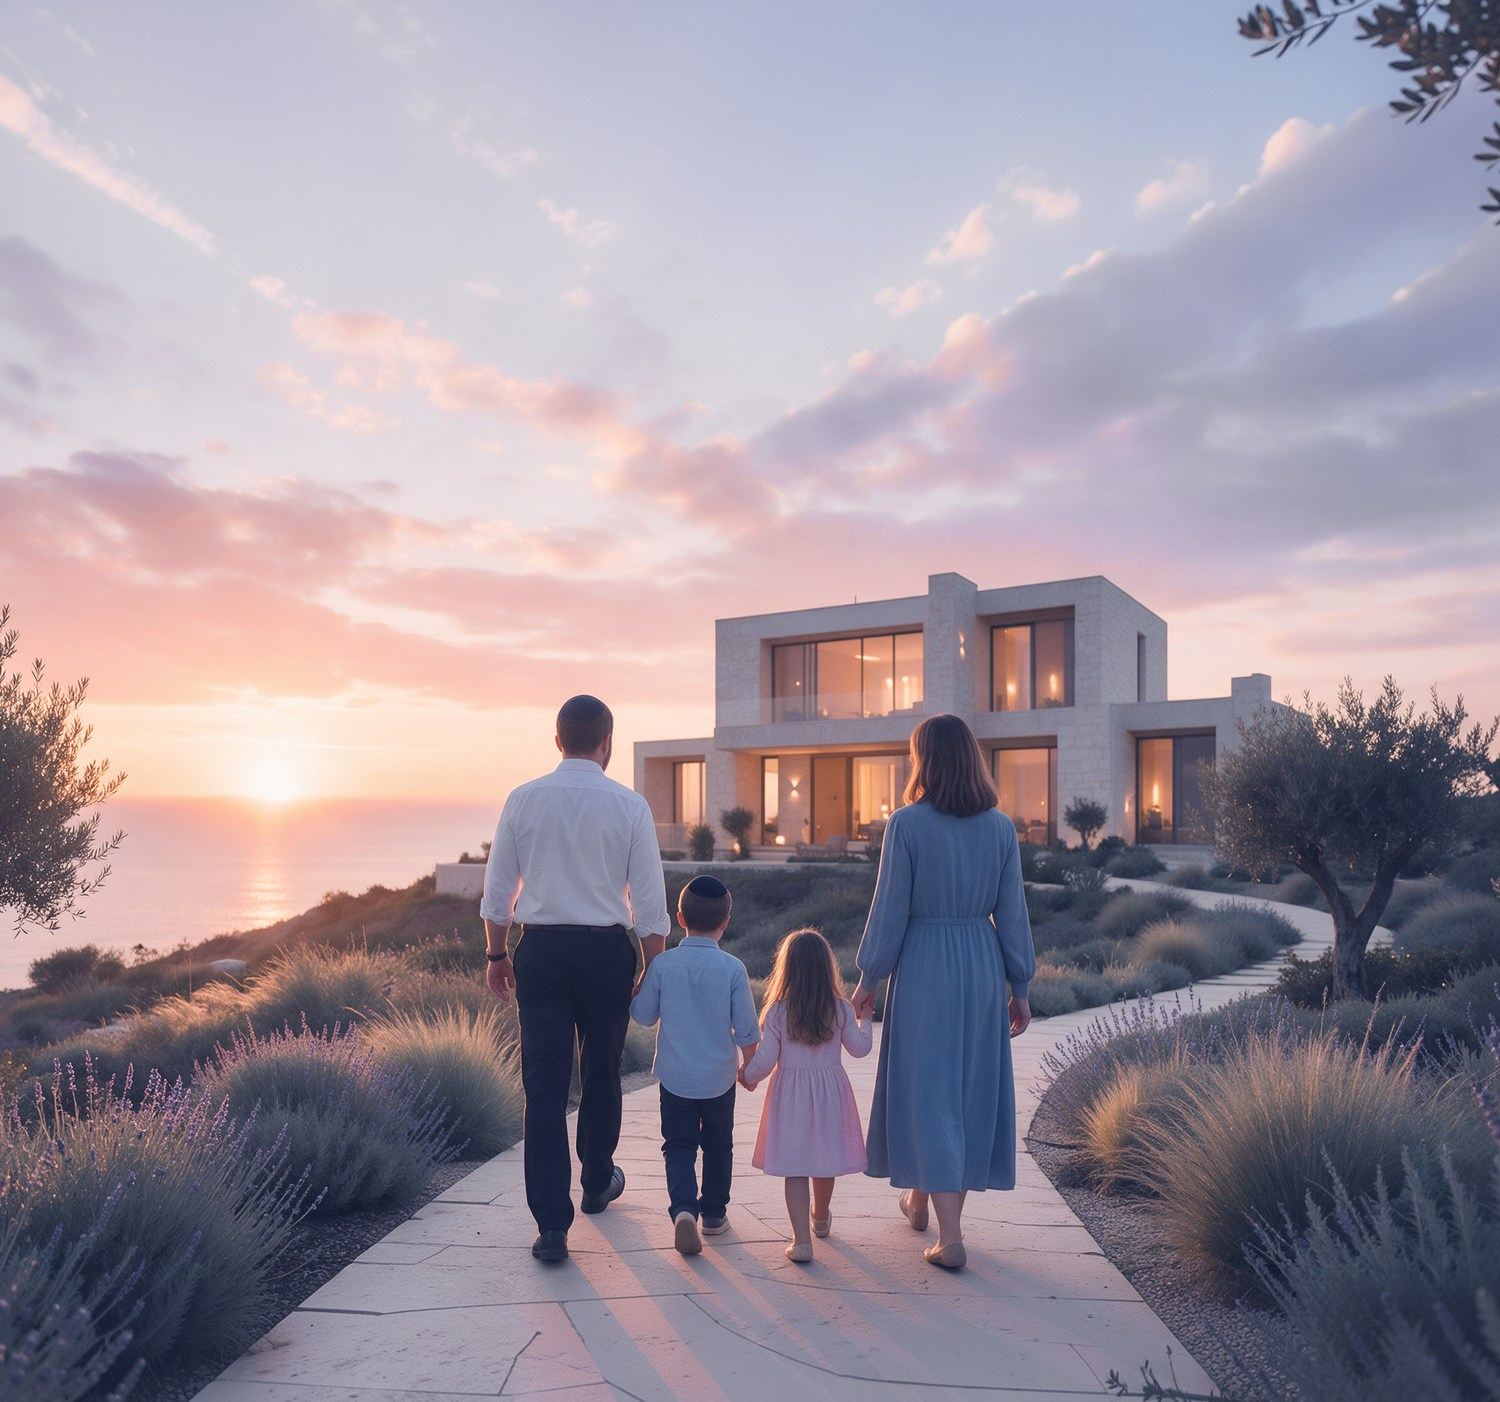
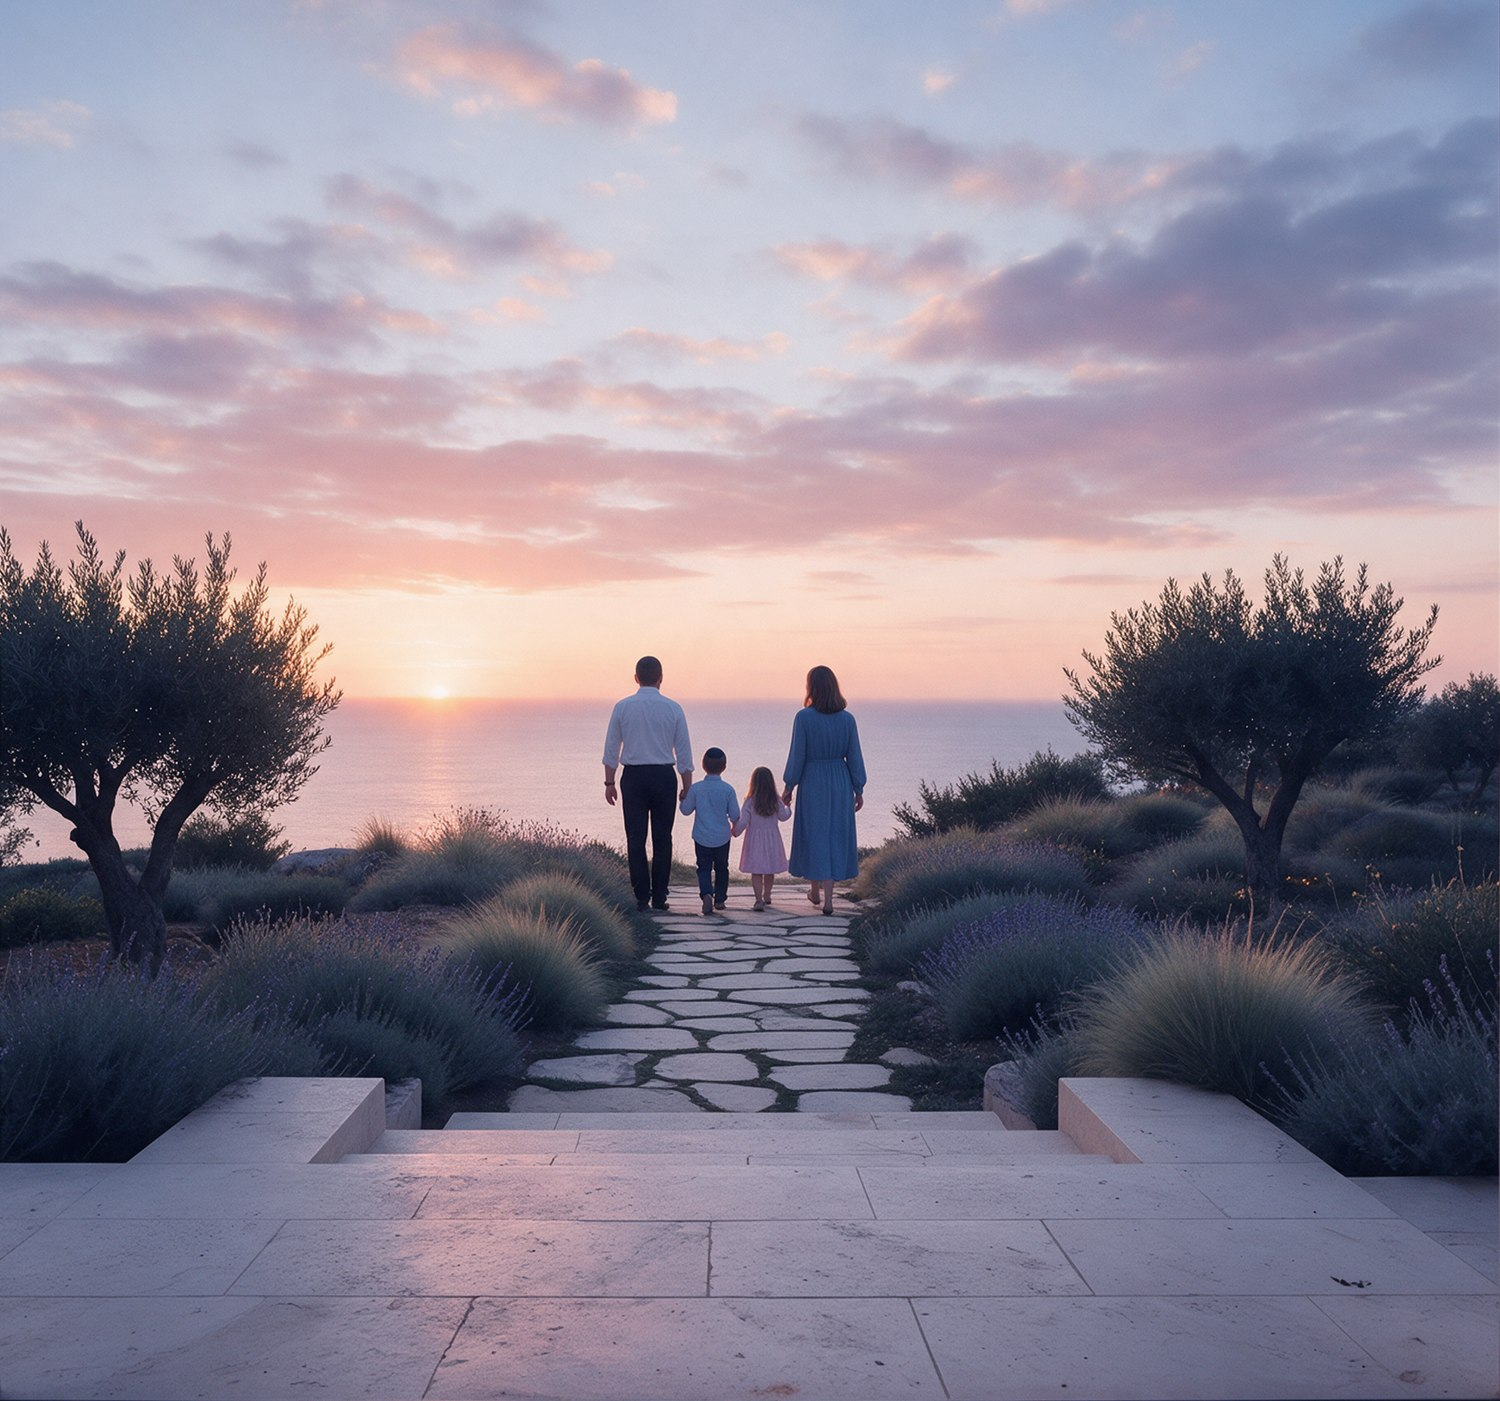
Home: two more investment-simulator CTAs, all linked to the live simulator

diff --git a/index.html b/index.html
@@ -121,7 +121,7 @@
       <div class="hero__intro">
         <p class="hero__lead"><bdi lang="en">5M Group</bdi> הוא <em>בית</em> למשפחות משקיעות<br> שבונות ביטחון כלכלי באמצעות הון ונכסים.</p>
         <p class="hero__body">כאן תהפכו את המשכורות והחסכונות שלכם לתיק נכסים מניב וצומח,<br> ותקבלו רוגע, בהירות ועתיד בטוח,<br> בעזרת אסטרטגיה כלכלית מותאמת אישית וניהול <span class="nowrap">פיננסי-משפחתי</span> מקיף.</p>
-        <a class="btn" href="simulator.html"><i class="hz" aria-hidden="true"></i>לסימולטור השקעות<span class="arr">&gt;&gt;</span></a>
+        <a class="btn" href="https://app.winnernadlan.com/embed/simulator" target="_blank" rel="noopener" aria-label="לסימולטור השקעות (נפתח בחלון חדש)"><i class="hz" aria-hidden="true"></i>לסימולטור השקעות<span class="arr">&gt;&gt;</span></a>
       </div>
 
       <a class="hero__scroll" href="#next" aria-label="גלילה לתוכן הבא"></a>
@@ -279,6 +279,8 @@
             <span class="sum2__big"><span class="sum2__w">עתיד</span> <span class="sum2__pic" aria-hidden="true"><img src="assets/sum-res.jpg" alt="" loading="lazy" decoding="async"></span> <span class="sum2__w">כלכלי רגוע</span></span>
             <span class="sum2__sub"><span class="visually-hidden">ואושר (ועושר)</span><span aria-hidden="true">ו<span class="aosh"><i>א</i><i>ע</i></span>ושר</span> משפחתי שהולך וגדל</span>
           </p>
+          <!-- כפתור לסימולטור: אחרי שהחשבון נסגר, להכניס את המספרים שלכם -->
+          <div class="sim-go sum2__go"><p class="sim-go__q">רוצים לראות את זה במספרים שלכם?</p><a class="btn" href="https://app.winnernadlan.com/embed/simulator" target="_blank" rel="noopener" aria-label="לסימולטור השקעות (נפתח בחלון חדש)"><i class="hz" aria-hidden="true"></i>לסימולטור השקעות<span class="arr">&gt;&gt;</span></a></div>
         </div>
       </div>
     </section>
@@ -364,6 +366,8 @@
           <article class="case"><span class="case__n" aria-hidden="true">02</span><h3 class="case__name">קונים ספר על דחיינות,<br>ודוחים את הקריאה בו</h3><p class="case__lead">הם זכרו שכסף שלא מושקע מאבד ערך, הבינו שצריך לדאוג לעתיד וידעו שחבל על כל רגע - אבל מרוב אפשרויות, עצות סותרות ופחד מהקפיצה למים, הם בחרו לדחות ולדחות עד שזה התמסמס בתוך השגרה. ובסוף הם קפצו..</p></article>
           <article class="case"><span class="case__n" aria-hidden="true">03</span><h3 class="case__name">רוצים הרבה,<br>אבל עושים מה שיוצא</h3><p class="case__lead">הם פתחו קופת גמל כי כדאי, חשבו לקנות דירה להשקעה כי כולם קונים, והכניסו כסף לבורסה כי מישהו אמר להם. חלק מההחלטות שלהם אולי היו טובות לכשעצמן, אבל עבורם הן היו טעויות אסטרטגיות קריטיות.</p></article>
         </div>
+        <!-- כפתור לסימולטור: מי שזיהה את עצמו באחד המצבים בודק לאן הכסף שלו יכול להגיע -->
+        <div class="sim-go peak__go"><p class="sim-go__q">מזהים את עצמכם? בדקו בסימולטור לאן הכסף שלכם יכול להגיע</p><a class="btn" href="https://app.winnernadlan.com/embed/simulator" target="_blank" rel="noopener" aria-label="לסימולטור השקעות (נפתח בחלון חדש)"><i class="hz" aria-hidden="true"></i>לסימולטור השקעות<span class="arr">&gt;&gt;</span></a></div>
       </div>
     </section>
 

diff --git a/sections.js b/sections.js
@@ -374,7 +374,7 @@
   const sum2 = $('.sum2');
   if (sum2) {
     const rows = $$('.sum2__row', sum2), ops = $$('.sum2__op', sum2), eq = $('.sum2__eq', sum2), words = $$('.sum2__w', sum2),
-      pic = $('.sum2__pic', sum2), picImg = $('.sum2__pic img', sum2), sub = $('.sum2__sub', sum2);
+      pic = $('.sum2__pic', sum2), picImg = $('.sum2__pic img', sum2), sub = $('.sum2__sub', sum2), go = $('.sum2__go', sum2);
     if (reduce) sum2.classList.add('is-done');
     else {
       gsap.set(rows, { autoAlpha: 0, y: 26 * U() });
@@ -384,6 +384,7 @@
       gsap.set(pic, { clipPath: 'inset(0% 50% 0% 50%)' });
       gsap.set(picImg, { scale: 1.35 });
       gsap.set(sub, { autoAlpha: 0, y: 26 * U() });
+      if (go) gsap.set(go, { autoAlpha: 0, y: 22 * U() });
       const tl = gsap.timeline({ paused: true, onComplete: () => sum2.classList.add('is-done') });
       rows.forEach((r, k) => {
         const at = .1 + k * .5;
@@ -395,6 +396,7 @@
         .to(pic, { clipPath: 'inset(0% 0% 0% 0%)', duration: 1, ease: 'expo.inOut' }, 2.15)
         .to(picImg, { scale: 1, duration: 1.6, ease: 'power2.out' }, 2.15)
         .to(sub, { autoAlpha: 1, y: 0, duration: .8, ease: 'power3.out' }, 2.7);
+      if (go) tl.to(go, { autoAlpha: 1, y: 0, duration: .8, ease: 'power3.out' }, 3.2);   // ואז ההזמנה לסימולטור
       // החשבון נסגר כשהאזור כמעט כולו במסך (גם כשמגיעים בגלילה רגילה)
       ScrollTrigger.create({ trigger: sum2, start: mobile() ? 'top 60%' : 'top 30%', once: true, onEnter: () => tl.play() });
       if (!mobile()) {
@@ -733,6 +735,9 @@
           .fromTo(sh, { xPercent: -120 }, { xPercent: 120, duration: .55, ease: 'power1.inOut' }, t + .7);
         // התוכן של הכרטיסים שמתחת לערימה נכנס רק כשהם נוחתים
       });
+      // בסוף, כשהכרטיסים בשורה: ההזמנה לסימולטור עולה מתחתם
+      const pgo = $('.peak__go', peak);
+      if (pgo) tl.fromTo(pgo, { autoAlpha: 0, y: 24 * U() }, { autoAlpha: 1, y: 0, duration: .5, ease: 'power3.out', immediateRender: true }, 1.25);
       tl.to({}, { duration: .5 });
       pin(peak, tl, () => 1.1);
       // עניין: כל כרטיס נוטה מעט אחרי העכבר, כמו כרטיס אמיתי ביד

diff --git a/styles.css b/styles.css
@@ -2052,3 +2052,19 @@ html[data-hero-text="dark"] .site-header:not(.is-solid):not(.is-light) .site-hea
 /* מובייל: במעבר ללוגו של 5M GROUP השכבה הלבנה הייתה בגובה המסך הקטן (svh). כשסרגל הכתובת מתקפל המסך גדל,
    ולמטה נשאר מלבן כחול עד שהתמונה של המשפחה הגיעה. השכבה הלבנה יורדת עד לתחתית המסך הגדול (lvh) */
 @media (max-width: 900px) { @supports (height: 100lvh) { html:not(#_) .sides.is-live .sides__white { bottom: calc(100svh - 100lvh); } } }
+
+/* =====================================================================
+   כפתורים לסימולטור לאורך דף הבית (לבקשת צביה): בסוף "שורה תחתונה" ובסוף "שלושת המצבים".
+   משפט קצר שמזמין להכניס את המספרים שלכם, ומתחתיו אותו כפתור כתום של ההירו
+   ===================================================================== */
+.sim-go { position: relative; z-index: 2; display: flex; flex-direction: column; align-items: center; gap: calc(18 * var(--u)); margin-top: calc(48 * var(--u)); text-align: center; }
+.sim-go__q { margin: 0; font-family: var(--font-text); font-weight: 400; font-size: var(--fs-lead); line-height: var(--lh-body); text-wrap: balance; }
+.sum2__go .sim-go__q { color: var(--ink-2); }
+.peak__go { margin-top: calc(40 * var(--u)); }
+.peak__go .sim-go__q { color: var(--paper-2); }
+@media (max-width: 900px) {
+  .sim-go { gap: 16px; margin-top: 40px; }
+  html:not(#_) .sim-go__q { max-width: 22em; font-size: var(--fs-body); }
+  .sim-go .btn { min-height: 52px; padding-inline: 30px; }
+  .peak__go { margin-top: 36px; }
+}
